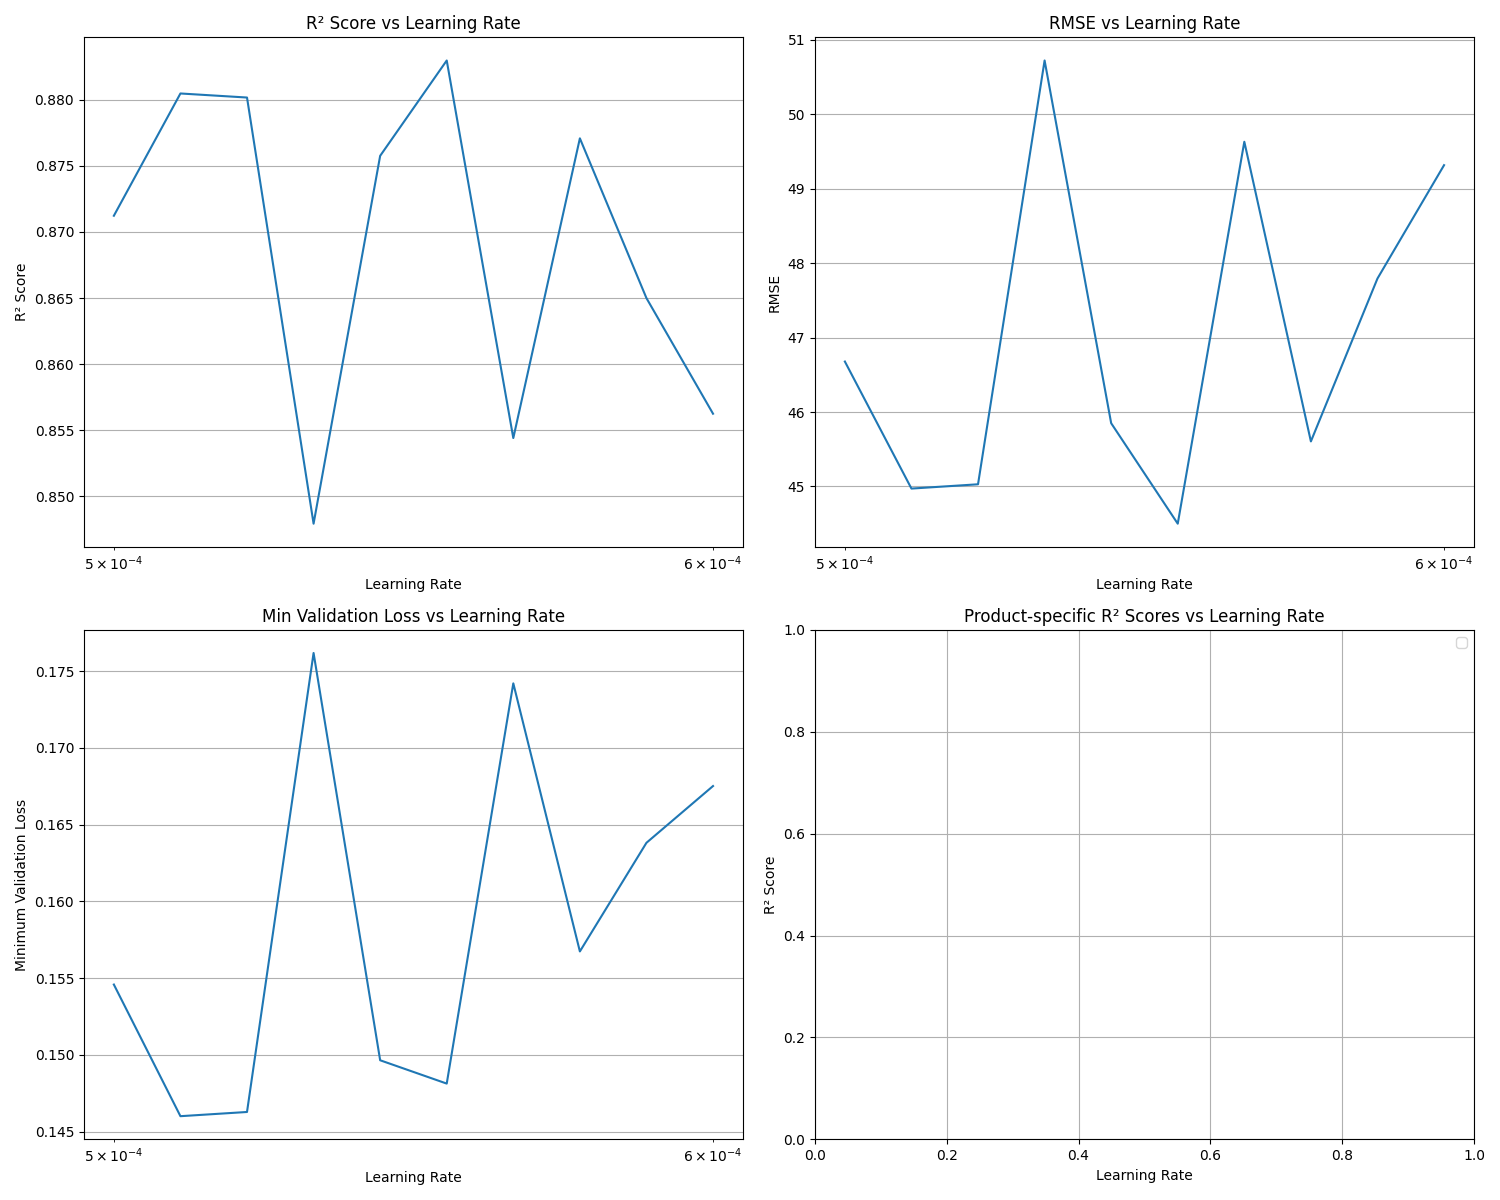
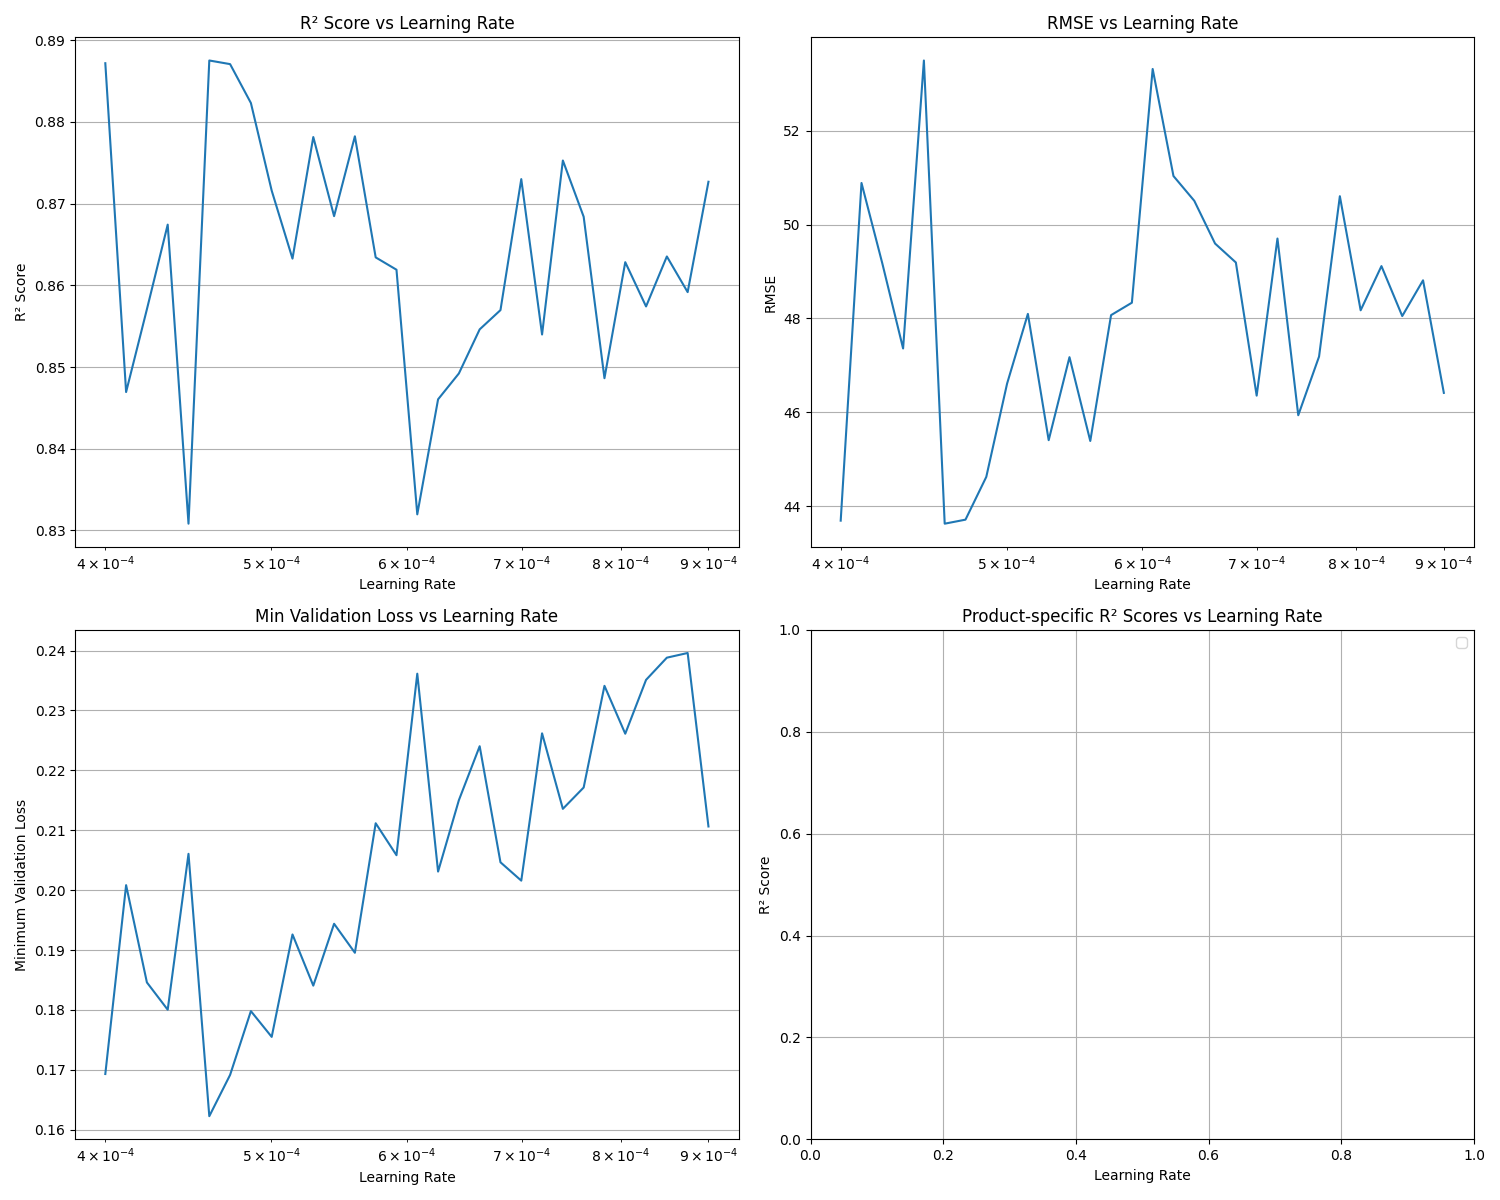
new tries

diff --git a/NeuralNetwork/neural_simple.py b/NeuralNetwork/neural_simple.py
@@ -62,7 +62,14 @@ def create_product_features(df):
     event_features = ['is_holiday', 'is_school_holiday', 'is_last_day_of_month', 'is_december_weekend', 'is_june_weekend',
                       'KielerWoche', 'is_nye', 'is_christmas_eve', 'is_weekend_holiday', 'is_pre_holiday']
 
+    # Get lag features
+    lag_features = [col for col in df_with_features.columns
+                    if ('turnover_lag' in col or 'same_weekday_lag' in col)]
+    print("Total lag features found:", len(lag_features))
+    print("Sample lag features:", lag_features[:5])
+
     all_features = []
+    all_features.extend(lag_features)  # Add base lag features
 
     # Temperature polynomials
     temp_poly = PolynomialFeatures(degree=3, include_bias=False)
@@ -76,12 +83,7 @@ def create_product_features(df):
     for i, name in enumerate(feature_names):
         df_with_features[f'{name}_Cloud'] = temp_features[:,
                                                           i] * df_with_features['Bewoelkung']
-    all_features.append(f'{name}_Cloud')
-
-    # Weather interactions
-    """ df_with_features['Temp_Cloud'] = df_with_features['Temperatur'] * \
-        df_with_features['Bewoelkung']
-    all_features.append('Temp_Cloud') """
+        all_features.append(f'{name}_Cloud')
 
     all_features.extend(weekday_dummies)
     all_features.extend(month_dummies)
@@ -103,11 +105,33 @@ def create_product_features(df):
                 df_with_features[weather]
             all_features.append(col_name)
 
-        # Add Temp_Cloud interaction
-        """ col_name = f'Temp_Cloud_product_{product_id}'
-        df_with_features[col_name] = df_with_features[product_col] * \
-            df_with_features['Temp_Cloud']
-        all_features.append(col_name) """
+        # Add lag feature interactions for this product
+        product_lags = [
+            lag for lag in lag_features if f'group_{product_id}' in lag]
+        print(f"\nProduct {product_id} lag features:", len(product_lags))
+        print("Sample:", product_lags[:2] if product_lags else "None")
+        for lag in product_lags:
+            # Interaction with weather features
+            for weather in weather_features:
+                col_name = f'{lag}_{weather}'
+                df_with_features[col_name] = df_with_features[lag] * \
+                    df_with_features[weather]
+                all_features.append(col_name)
+
+            # Interaction with weather codes
+            for weather_code in weather_codes:
+                col_name = f'{lag}_{weather_code}'
+                df_with_features[col_name] = df_with_features[lag] * \
+                    df_with_features[weather_code]
+                all_features.append(col_name)
+
+            # Interaction with events
+            for event in event_features:
+                col_name = f'{lag}_{event}'
+                df_with_features[col_name] = df_with_features[lag] * \
+                    df_with_features[event]
+                all_features.append(col_name)
+
         col_name_cloud = f'{name}_Cloud_product_{product_id}'
         df_with_features[col_name_cloud] = temp_features[:, i] * \
             df_with_features['Bewoelkung'] * df_with_features[product_col]
@@ -225,7 +249,7 @@ def prepare_and_predict_umsatz_nn(df):
     ])
 
     # model.compile(optimizer=Adam(learning_rate=0.000665),
-    model.compile(optimizer=Adam(learning_rate=0.000550),
+    model.compile(optimizer=Adam(learning_rate= 0.00023299518105153718,),
                   loss='mse',
                   metrics=['mae', tf.keras.metrics.MeanAbsolutePercentageError()])
 

diff --git a/NeuralNetwork/learningRate.py b/NeuralNetwork/learningRate.py
@@ -55,7 +55,14 @@ def create_product_features(df):
     event_features = ['is_holiday', 'is_school_holiday', 'is_last_day_of_month', 'is_december_weekend', 'is_june_weekend',
                       'KielerWoche', 'is_nye', 'is_christmas_eve', 'is_weekend_holiday', 'is_pre_holiday']
 
+    # Get lag features
+    lag_features = [col for col in df_with_features.columns
+                    if ('turnover_lag' in col or 'same_weekday_lag' in col)]
+    print("Total lag features found:", len(lag_features))
+    print("Sample lag features:", lag_features[:5])
+
     all_features = []
+    all_features.extend(lag_features)  # Add base lag features
 
     # Temperature polynomials
     temp_poly = PolynomialFeatures(degree=3, include_bias=False)
@@ -69,12 +76,7 @@ def create_product_features(df):
     for i, name in enumerate(feature_names):
         df_with_features[f'{name}_Cloud'] = temp_features[:,
                                                           i] * df_with_features['Bewoelkung']
-    all_features.append(f'{name}_Cloud')
-
-    # Weather interactions
-    """ df_with_features['Temp_Cloud'] = df_with_features['Temperatur'] * \
-        df_with_features['Bewoelkung']
-    all_features.append('Temp_Cloud') """
+        all_features.append(f'{name}_Cloud')
 
     all_features.extend(weekday_dummies)
     all_features.extend(month_dummies)
@@ -96,11 +98,33 @@ def create_product_features(df):
                 df_with_features[weather]
             all_features.append(col_name)
 
-        # Add Temp_Cloud interaction
-        """ col_name = f'Temp_Cloud_product_{product_id}'
-        df_with_features[col_name] = df_with_features[product_col] * \
-            df_with_features['Temp_Cloud']
-        all_features.append(col_name) """
+        # Add lag feature interactions for this product
+        product_lags = [
+            lag for lag in lag_features if f'group_{product_id}' in lag]
+        print(f"\nProduct {product_id} lag features:", len(product_lags))
+        print("Sample:", product_lags[:2] if product_lags else "None")
+        for lag in product_lags:
+            # Interaction with weather features
+            for weather in weather_features:
+                col_name = f'{lag}_{weather}'
+                df_with_features[col_name] = df_with_features[lag] * \
+                    df_with_features[weather]
+                all_features.append(col_name)
+
+            # Interaction with weather codes
+            for weather_code in weather_codes:
+                col_name = f'{lag}_{weather_code}'
+                df_with_features[col_name] = df_with_features[lag] * \
+                    df_with_features[weather_code]
+                all_features.append(col_name)
+
+            # Interaction with events
+            for event in event_features:
+                col_name = f'{lag}_{event}'
+                df_with_features[col_name] = df_with_features[lag] * \
+                    df_with_features[event]
+                all_features.append(col_name)
+
         col_name_cloud = f'{name}_Cloud_product_{product_id}'
         df_with_features[col_name_cloud] = temp_features[:, i] * \
             df_with_features['Bewoelkung'] * df_with_features[product_col]
@@ -265,9 +289,9 @@ def main():
     df_featured = prepare_features(df_imputed)
     df_cleaned = handle_missing_values(df_featured)
 
-    min_lr = 0.000500
-    max_lr = 0.000600
-    num_steps = 10
+    min_lr = 0.000100
+    max_lr = 0.001
+    num_steps = 50
     learning_rates = np.logspace(np.log10(min_lr), np.log10(max_lr), num_steps)
 
     results = []

diff --git a/data/data_prep.py b/data/data_prep.py
@@ -3,27 +3,53 @@ import numpy as np
 
 
 def add_time_series_features(df):
-    """
-    Add time series features (lagged values) for each product group's turnover.
-    """
     df_with_lags = df.copy()
     df_with_lags = df_with_lags.sort_values(['Datum', 'Warengruppe'])
 
     for product_group in df_with_lags['Warengruppe'].unique():
+        # Create mask for this product
         mask = df_with_lags['Warengruppe'] == product_group
+
+        # Get only this product's data
+        product_data = df_with_lags[mask].copy()
+
+        # Create lags only for this product's data
         for lag in range(1, 8):
             col_name = f'turnover_lag_{lag}_days_group_{product_group}'
-            df_with_lags.loc[mask, col_name] = df_with_lags.loc[mask, 'Umsatz'].shift(
-                lag)
+            product_data[col_name] = product_data['Umsatz'].shift(lag)
 
-    lag_columns = [
-        col for col in df_with_lags.columns if 'turnover_lag' in col]
-    for col in lag_columns:
-        product_group = int(col.split('_')[-1])
-        mask = df_with_lags['Warengruppe'] == product_group
-        mean_value = df_with_lags.loc[mask, col].mean()
-        df_with_lags.loc[mask, col] = df_with_lags.loc[mask,
-                                                       col].fillna(mean_value)
+        # Previous week same day
+        product_data[f'same_weekday_lag_group_{
+            product_group}'] = product_data['Umsatz'].shift(7)
+
+        # Special handling for Product 6 only
+        if product_group == 6:
+            # Add previous year same day (seasonal pattern)
+            product_data['last_year_lag_p6'] = product_data['Umsatz'].shift(
+                365)
+
+            # Add season indicator (Oct-Jan)
+            product_data['is_season_p6'] = product_data['Datum'].dt.month.isin(
+                [10, 11, 12, 1]).astype(int)
+
+            # Add these to lag columns for this product
+            lag_columns = [col for col in product_data.columns if 'lag' in col or col in [
+                'last_year_lag_p6', 'is_season_p6']]
+        else:
+            lag_columns = [col for col in product_data.columns if 'lag' in col]
+
+        # Fill NaN values with median for this product
+        for col in lag_columns:
+            product_data[col] = product_data[col].fillna(
+                product_data['Umsatz'].median())
+
+        # Update only this product's rows in the original dataframe
+        df_with_lags.loc[mask, lag_columns] = product_data[lag_columns]
+
+    # Any remaining NaN values should be 0 as they're for different products
+    lag_columns = [col for col in df_with_lags.columns if 'lag' in col or col in [
+        'last_year_lag_p6', 'is_season_p6']]
+    df_with_lags[lag_columns] = df_with_lags[lag_columns].fillna(0)
 
     return df_with_lags
 
